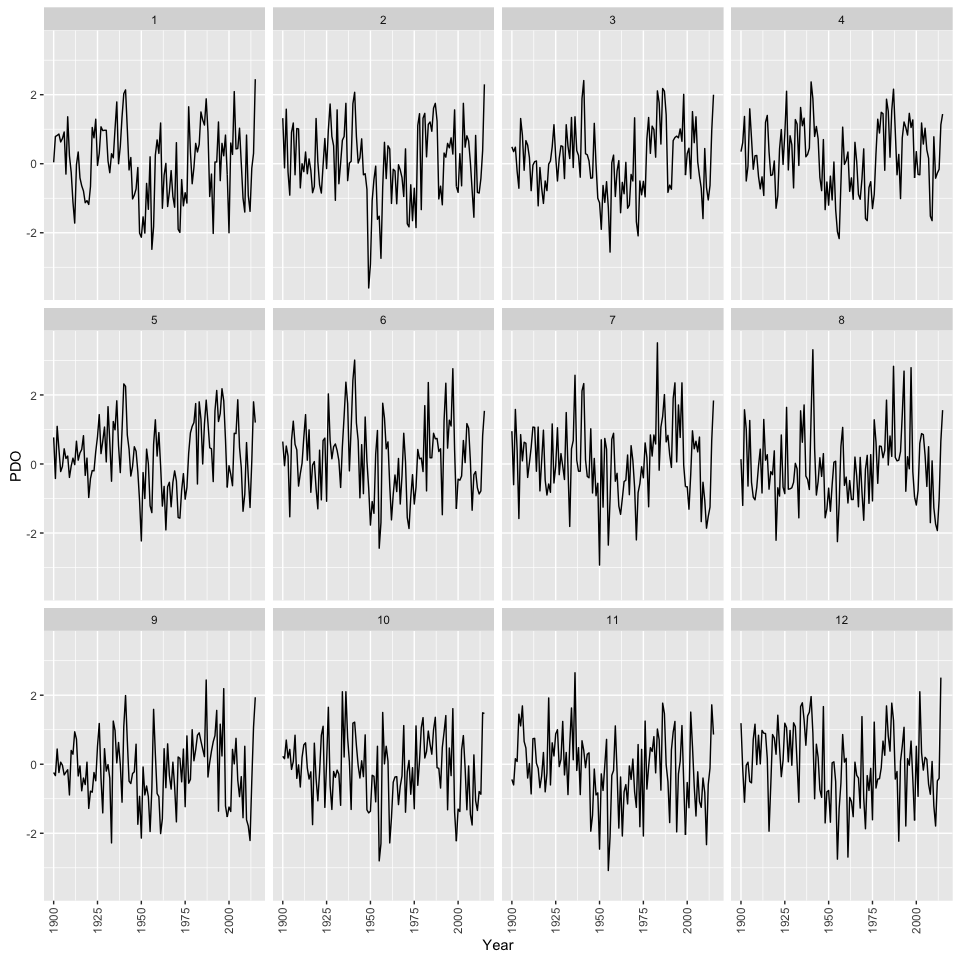
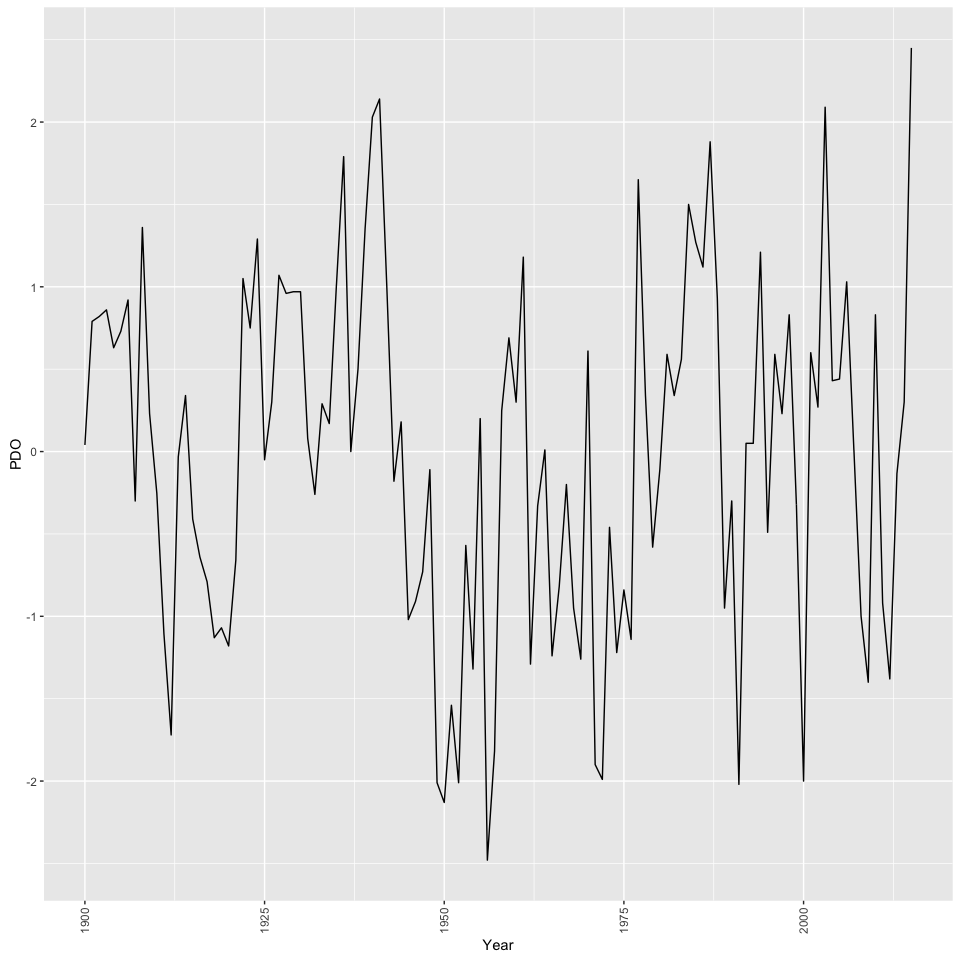
do plot for January not annual
Fix #4

diff --git a/README.md b/README.md
@@ -12,13 +12,17 @@ rpdo is an R data package of Monthly Pacific Decadal Oscillation (PDO) index val
 ``` r
 library(rpdo)
 library(ggplot2)
+```
 
+    ## Warning: package 'ggplot2' was built under R version 3.2.4
+
+``` r
 data(pdo)
-ggplot(data = pdo, aes(x = Year, y = PDO)) + facet_wrap(~Month) + geom_line() +
+ggplot(data = subset(pdo, pdo$Month == 1), aes(x = Year, y = PDO)) + geom_line() +
   theme(axis.text.x = element_text(angle = 90, vjust = 0.5))
 ```
 
-![](README_files/figure-markdown_github/unnamed-chunk-1-1.png)
+![](README_files/figure-markdown_github/unnamed-chunk-1-1.png)<!-- -->
 
 Further Information
 -------------------
